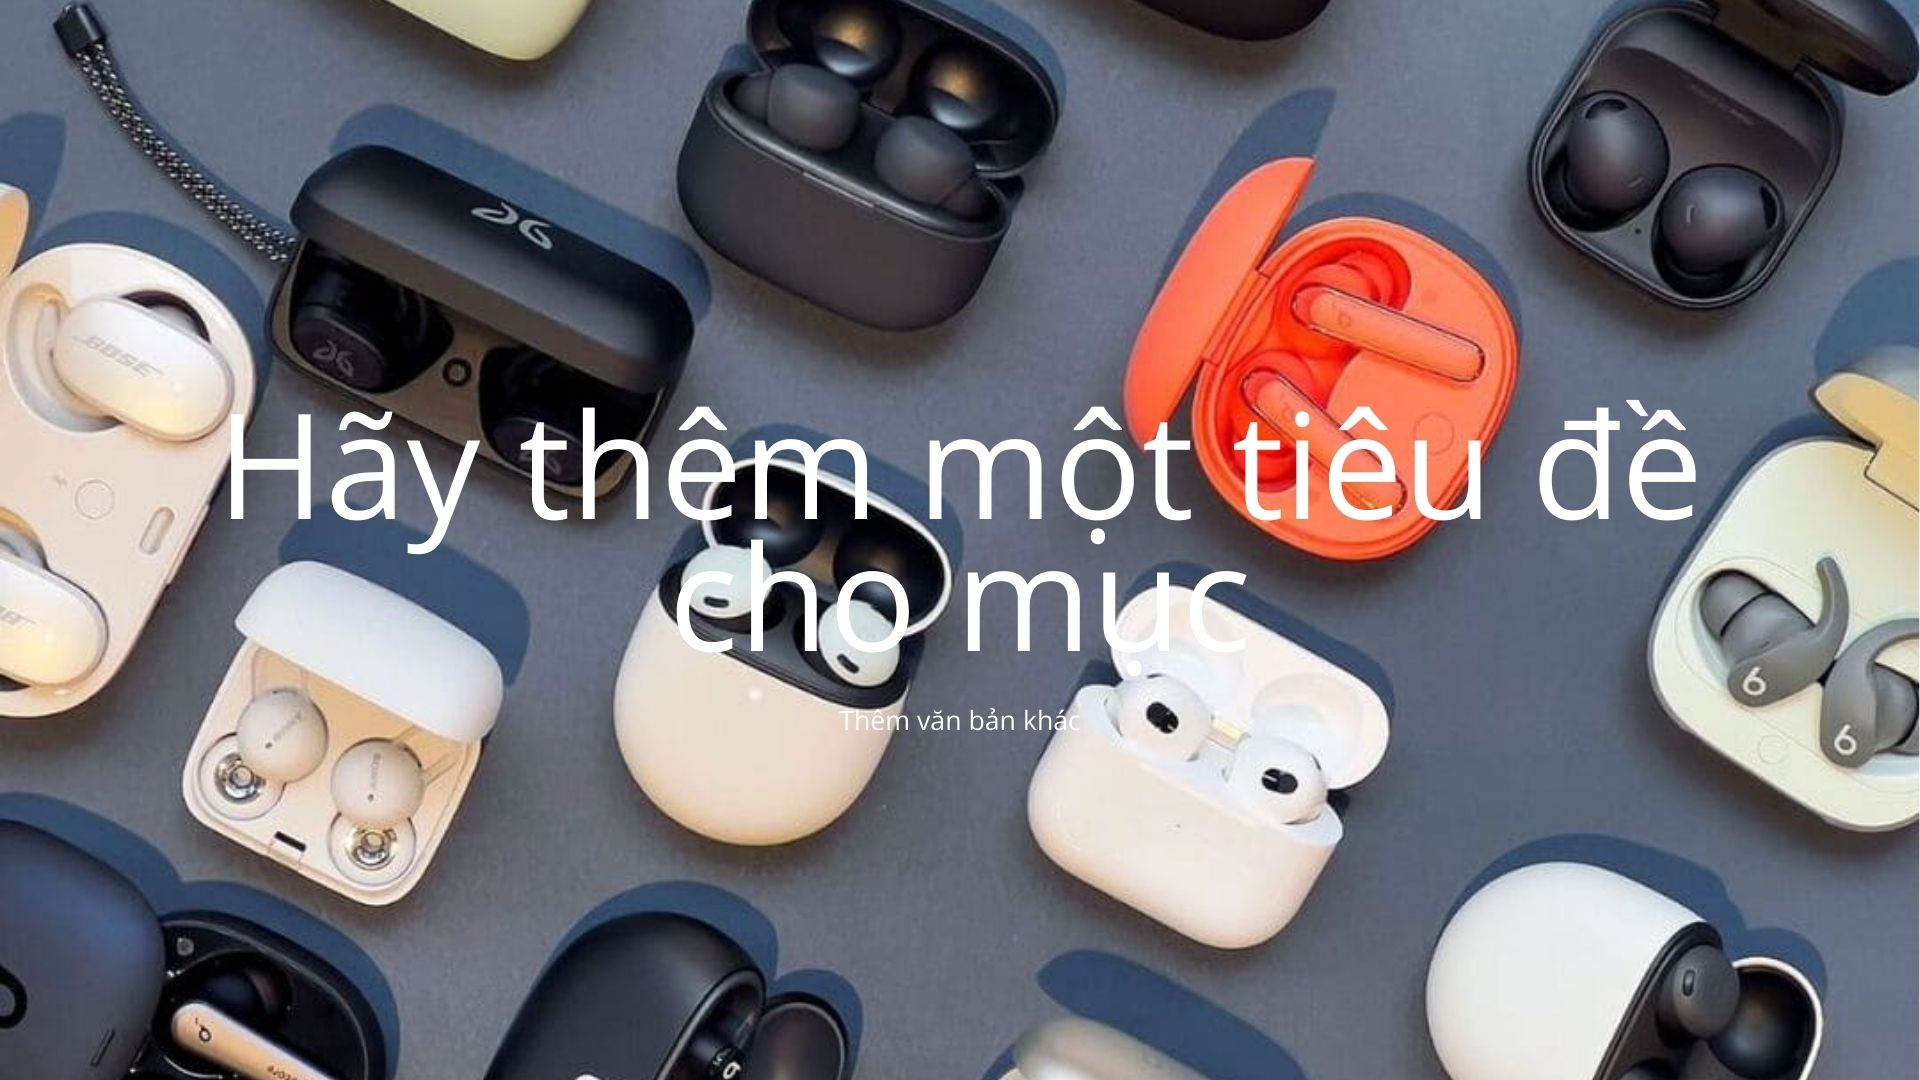
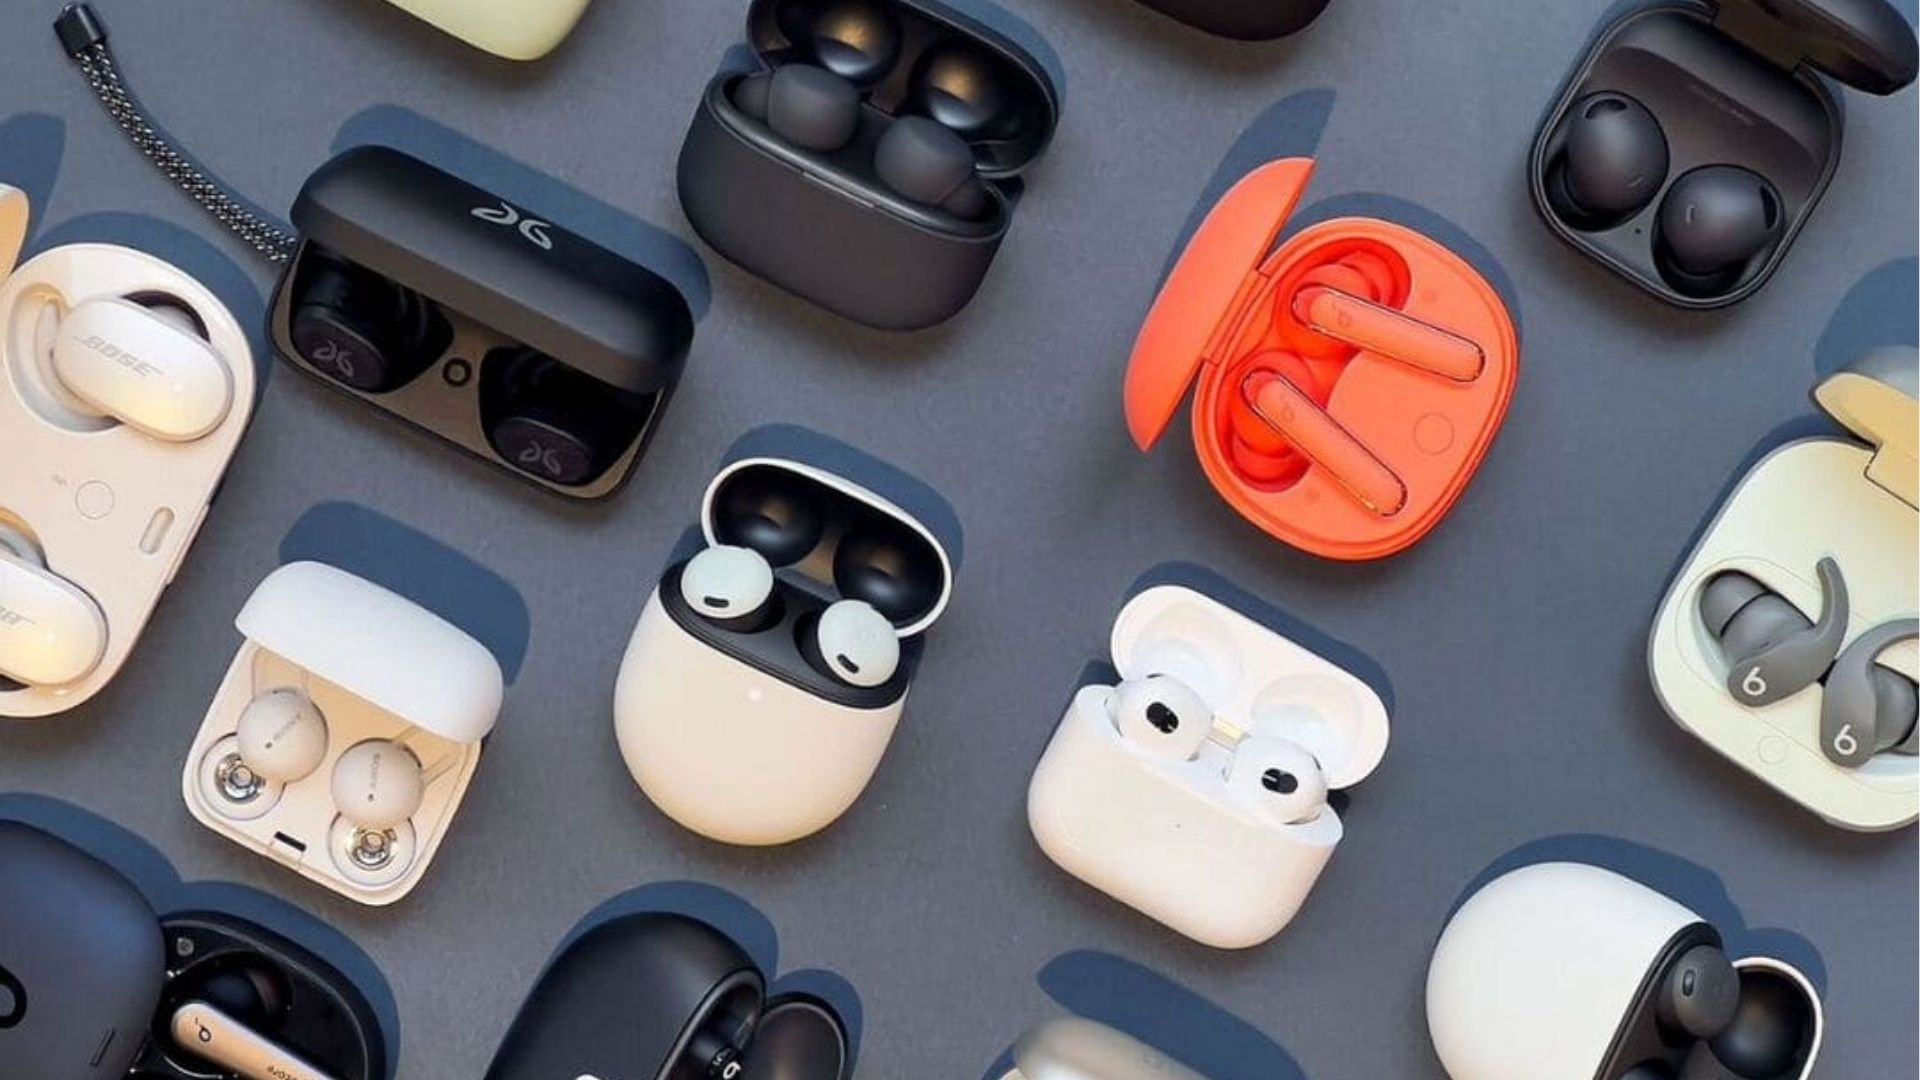
update2

Changed region(s): [[0.0938, 0.3667, 0.9062, 0.6111], [0.4375, 0.6417, 0.5625, 0.6722]]

diff --git a/b0140/index.html b/b0140/index.html
@@ -1,4 +1,3 @@
-
 <!DOCTYPE html>
 <html lang="en">
 <head>
@@ -7,20 +6,40 @@
   <title>Headphone Ad</title>
   <style>
     body {
-      background-image: url('music.jpg');
-      background-size: cover;
-      background-position: center;
-      background-repeat: no-repeat;
-      height: 100vh;
-      font-family: sans-serif;
-      color: white;
-      display: flex;
-      align-items: center;
-      justify-content: center;
-      text-shadow: 2px 2px 4px #000;
+      margin: 0;
+      padding: 0;
+      font-family: 'Segoe UI', Tahoma, Geneva, Verdana, sans-serif;
+      background-color: #000;
+      color: #fff;
+    }
+
+    .headline {
+      text-align: center;
+      font-size: 48px;
+      font-weight: bold;
+      padding: 40px 20px 20px;
+      background: linear-gradient(90deg, #ff4d00, #ff9900);
+      -webkit-background-clip: text;
+      -webkit-text-fill-color: transparent;
+      text-transform: uppercase;
+      letter-spacing: 2px;
+    }
+
+    .gallery img {
+      width: 100%;
+      height: auto;
+      display: block;
     }
   </style>
 </head>
 <body>
+  <div class="headline">Unleash The Sound</div>
+
+  <div class="gallery">
+    <img src="1.jpg" alt="Headphone 1">
+    <img src="2.jpg" alt="Headphone 2">
+    <img src="3.jpg" alt="Headphone 3">
+    <img src="4.jpg" alt="Headphone 4">
+  </div>
 </body>
 </html>
